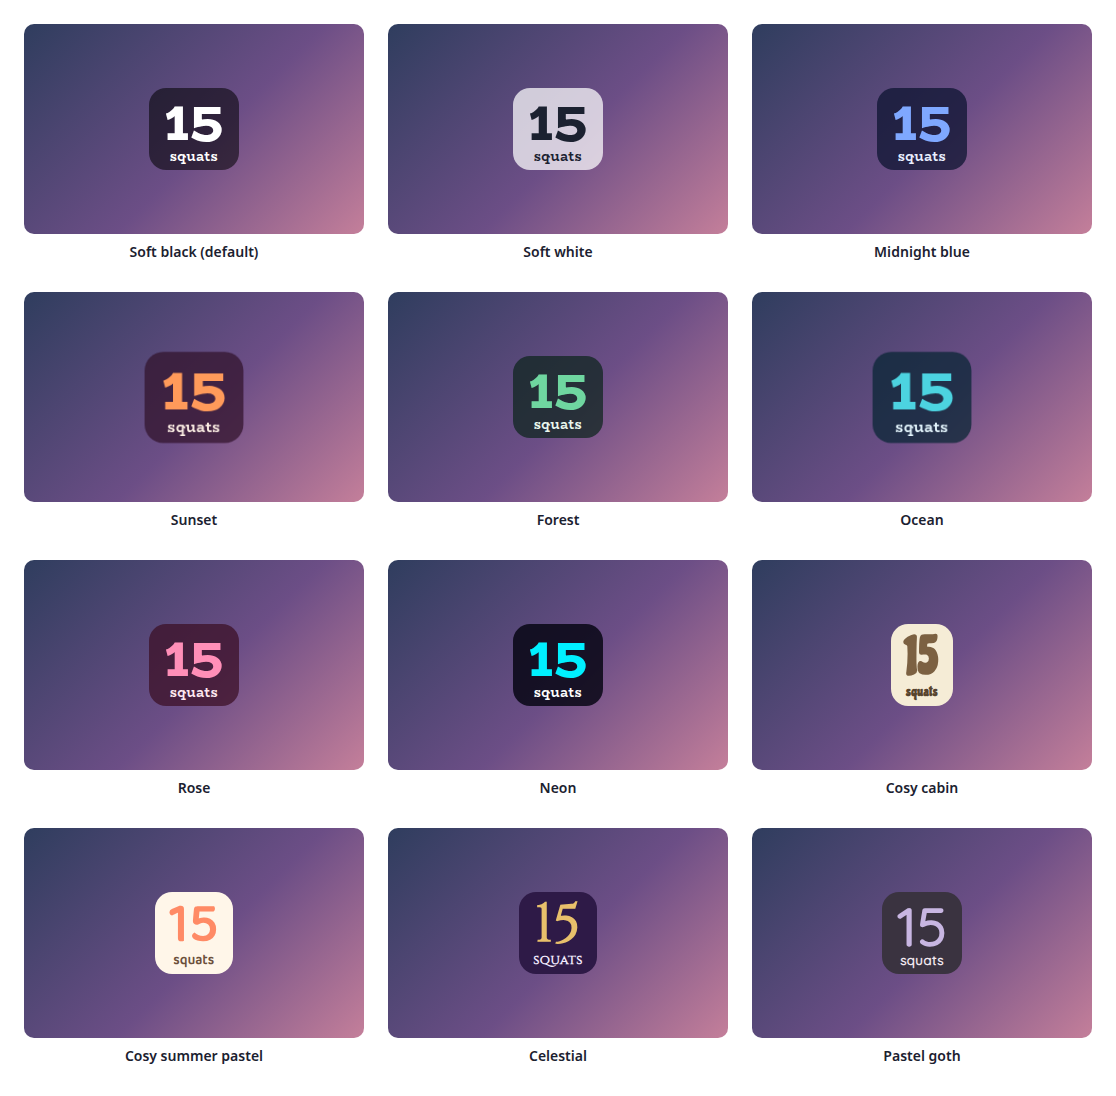
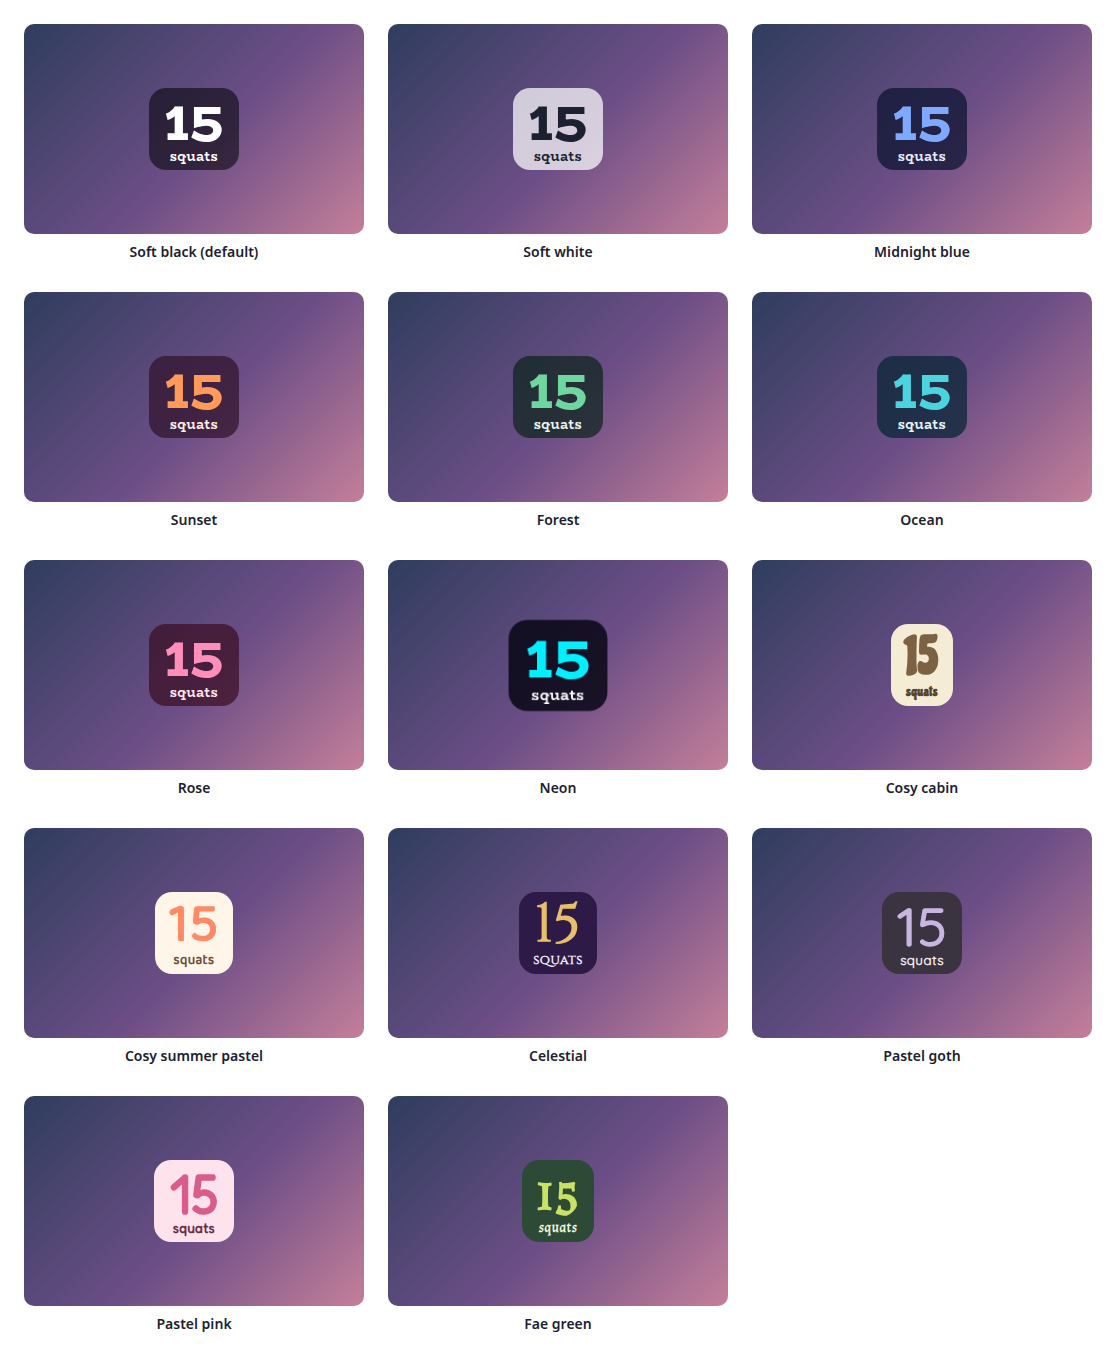
Add the Pastel pink and Fae green presets
Two more style presets join the shared set, so there are now fourteen. Pastel pink is a soft blush with rose, in Fredoka, whose rounded letters suit it, and Fae green is a mossy green with a firefly lime accent, in Almendra, a storybook serif. They are identical in every overlay in this set, the dropdown and the README gallery show all fourteen, and the test checks each against the shared palette.

diff --git a/test/test-widget.js b/test/test-widget.js
@@ -362,11 +362,11 @@ function ok(cond, msg) { if (cond) { pass++; console.log("  PASS " + msg); } els
   ok(unhandled.length === 0, "every button is handled (unhandled: " + unhandled.join(", ") + ")");
 
 
-  // ---- style presets: the same twelve, with the same colours, in every overlay
+  // ---- style presets: the same fourteen, with the same colours, in every overlay
   console.log("\n[style presets]");
-  const EXPECT = {"glass": {"text": "#FFFFFF", "accent": "#FFFFFF", "panel": "rgba(0, 0, 0, 0.55)", "font": "BioRhyme"}, "frost": {"text": "#1B2130", "accent": "#1B2130", "panel": "rgba(255, 255, 255, 0.72)", "font": "BioRhyme"}, "midnight": {"text": "#E8EEFF", "accent": "#7FA8FF", "panel": "rgba(10, 18, 46, 0.72)", "font": "BioRhyme"}, "sunset": {"text": "#FFF1E6", "accent": "#FF9A5A", "panel": "rgba(48, 18, 42, 0.72)", "font": "BioRhyme"}, "forest": {"text": "#EAF7EE", "accent": "#6FD6A0", "panel": "rgba(12, 36, 28, 0.72)", "font": "BioRhyme"}, "ocean": {"text": "#E6F8FF", "accent": "#4CD3E0", "panel": "rgba(6, 36, 50, 0.72)", "font": "BioRhyme"}, "rose": {"text": "#FFE9F1", "accent": "#FF8FB8", "panel": "rgba(58, 14, 34, 0.72)", "font": "BioRhyme"}, "neon": {"text": "#FFFFFF", "accent": "#00F0FF", "panel": "rgba(4, 4, 16, 0.82)", "font": "BioRhyme"}, "cosycabin": {"text": "#57442E", "accent": "#7C6142", "panel": "#F5ECD6", "font": "Chicle"}, "pastel": {"text": "#6B4F3A", "accent": "#FF8A65", "panel": "#FFF6E9", "font": "Baloo 2"}, "celestial": {"text": "#F3ECFF", "accent": "#E8C06B", "panel": "#2E1A47", "font": "Cinzel"}, "pastelgoth": {"text": "#F2E9F0", "accent": "#C8B6E2", "panel": "#3A3340", "font": "Quicksand"}};
-  const LABELS = {"glass": "Soft black (default)", "frost": "Soft white", "midnight": "Midnight blue", "sunset": "Sunset", "forest": "Forest", "ocean": "Ocean", "rose": "Rose", "neon": "Neon", "cosycabin": "Cosy cabin", "pastel": "Cosy summer pastel", "celestial": "Celestial", "pastelgoth": "Pastel goth", "custom": "Custom (use the colours below)"};
-  ok(JSON.stringify(Object.keys(fields.themePreset.options)) === JSON.stringify(Object.keys(LABELS)) && Object.keys(LABELS).length === 13, "the dropdown offers the twelve shared presets and Custom, in the shared order");
+  const EXPECT = {"glass": {"text": "#FFFFFF", "accent": "#FFFFFF", "panel": "rgba(0, 0, 0, 0.55)", "font": "BioRhyme"}, "frost": {"text": "#1B2130", "accent": "#1B2130", "panel": "rgba(255, 255, 255, 0.72)", "font": "BioRhyme"}, "midnight": {"text": "#E8EEFF", "accent": "#7FA8FF", "panel": "rgba(10, 18, 46, 0.72)", "font": "BioRhyme"}, "sunset": {"text": "#FFF1E6", "accent": "#FF9A5A", "panel": "rgba(48, 18, 42, 0.72)", "font": "BioRhyme"}, "forest": {"text": "#EAF7EE", "accent": "#6FD6A0", "panel": "rgba(12, 36, 28, 0.72)", "font": "BioRhyme"}, "ocean": {"text": "#E6F8FF", "accent": "#4CD3E0", "panel": "rgba(6, 36, 50, 0.72)", "font": "BioRhyme"}, "rose": {"text": "#FFE9F1", "accent": "#FF8FB8", "panel": "rgba(58, 14, 34, 0.72)", "font": "BioRhyme"}, "neon": {"text": "#FFFFFF", "accent": "#00F0FF", "panel": "rgba(4, 4, 16, 0.82)", "font": "BioRhyme"}, "cosycabin": {"text": "#57442E", "accent": "#7C6142", "panel": "#F5ECD6", "font": "Chicle"}, "pastel": {"text": "#6B4F3A", "accent": "#FF8A65", "panel": "#FFF6E9", "font": "Baloo 2"}, "celestial": {"text": "#F3ECFF", "accent": "#E8C06B", "panel": "#2E1A47", "font": "Cinzel"}, "pastelgoth": {"text": "#F2E9F0", "accent": "#C8B6E2", "panel": "#3A3340", "font": "Quicksand"}, "pastelpink": {"text": "#6A2E4B", "accent": "#D95C8A", "panel": "#FFE3EC", "font": "Fredoka"}, "faegreen": {"text": "#EEF5DA", "accent": "#C9E265", "panel": "#2C4A36", "font": "Almendra"}};
+  const LABELS = {"glass": "Soft black (default)", "frost": "Soft white", "midnight": "Midnight blue", "sunset": "Sunset", "forest": "Forest", "ocean": "Ocean", "rose": "Rose", "neon": "Neon", "cosycabin": "Cosy cabin", "pastel": "Cosy summer pastel", "celestial": "Celestial", "pastelgoth": "Pastel goth", "pastelpink": "Pastel pink", "faegreen": "Fae green", "custom": "Custom (use the colours below)"};
+  ok(JSON.stringify(Object.keys(fields.themePreset.options)) === JSON.stringify(Object.keys(LABELS)) && Object.keys(LABELS).length === 15, "the dropdown offers the fourteen shared presets and Custom, in the shared order");
   ok(Object.keys(LABELS).every(k => fields.themePreset.options[k] === LABELS[k]), "with the shared labels");
   ok(fields.themePreset.value === "glass", "and Soft black is the default");
   for (const key of Object.keys(EXPECT)) {

diff --git a/widget/widget.js b/widget/widget.js
@@ -19,7 +19,7 @@
 
   var STORE_KEY = "squat_tracker_v1";
 
-  /* Style presets. The same twelve, with the same colours, in every overlay in this
+  /* Style presets. The same fourteen, with the same colours, in every overlay in this
      set, generated from one table so they cannot drift apart, so any preset looks
      like one family across a whole stream. The default, Soft black, is a see-through
      black panel with white text. */
@@ -35,7 +35,9 @@
     cosycabin: { panel: "#F5ECD6", strong: "#F5ECD6", text: "#57442E", accent: "#7C6142", font: "Chicle" },
     pastel: { panel: "#FFF6E9", strong: "#FFF6E9", text: "#6B4F3A", accent: "#FF8A65", font: "Baloo 2" },
     celestial: { panel: "#2E1A47", strong: "#2E1A47", text: "#F3ECFF", accent: "#E8C06B", font: "Cinzel" },
-    pastelgoth: { panel: "#3A3340", strong: "#3A3340", text: "#F2E9F0", accent: "#C8B6E2", font: "Quicksand" }
+    pastelgoth: { panel: "#3A3340", strong: "#3A3340", text: "#F2E9F0", accent: "#C8B6E2", font: "Quicksand" },
+    pastelpink: { panel: "#FFE3EC", strong: "#FFE3EC", text: "#6A2E4B", accent: "#D95C8A", font: "Fredoka" },
+    faegreen: { panel: "#2C4A36", strong: "#2C4A36", text: "#EEF5DA", accent: "#C9E265", font: "Almendra" }
   };
   var BASE = PRESETS.glass;
 

diff --git a/dev/harness.js b/dev/harness.js
@@ -82,7 +82,7 @@
     var def = fieldDefs.themePreset;
     host.innerHTML =
       (def ? '<div class="row"><label for="look-preset">Style preset</label> <select id="look-preset"></select></div>' +
-        '<p class="hint">The same twelve presets are in every overlay in this set. Custom uses the colour settings below.</p>' : '') +
+        '<p class="hint">The same fourteen presets are in every overlay in this set. Custom uses the colour settings below.</p>' : '') +
       '<div class="row"><button id="export-download" class="go">Download fields.json</button>' +
       '<button id="export-copy" class="alt">Copy fields.json</button></div>' +
       '<p class="hint">Your current settings as a fields.json for StreamElements. Paste it into the Fields tab of a new custom widget and it starts out as you see it here.</p>' +

diff --git a/README.md b/README.md
@@ -26,15 +26,15 @@ It is a single self-contained widget in plain JavaScript, with no dependencies a
 
 <p><img src="docs/locked.png" alt="The sticker with a small padlock in its corner" width="340"></p>
 
-**Your own look.** Every part is a setting. This one uses custom colours, an outline, rounder corners, a tilt, a lighter caption and a tail. You can also pick any of the twelve [style presets](#style-presets) with one setting.
+**Your own look.** Every part is a setting. This one uses custom colours, an outline, rounder corners, a tilt, a lighter caption and a tail. You can also pick any of the fourteen [style presets](#style-presets) with one setting.
 
 <p><img src="docs/custom.png" alt="A pink sticker with a light outline, a tilt and the caption squats today" width="340"></p>
 
 ## Style presets
 
-One setting picks the look. The same twelve presets, with the same colours, are in every overlay in this set, so overlays from this set match whichever you choose. This is how each one looks in this overlay.
+One setting picks the look. The same fourteen presets, with the same colours, are in every overlay in this set, so overlays from this set match whichever you choose. This is how each one looks in this overlay.
 
-<p><img src="docs/presets.png" alt="A grid of this overlay in each of the twelve style presets: Soft black, Soft white, Midnight blue, Sunset, Forest, Ocean, Rose, Neon, Cosy cabin, Cosy summer pastel, Celestial and Pastel goth" width="760"></p>
+<p><img src="docs/presets.png" alt="A grid of this overlay in each of the fourteen style presets: Soft black, Soft white, Midnight blue, Sunset, Forest, Ocean, Rose, Neon, Cosy cabin, Cosy summer pastel, Celestial, Pastel goth, Pastel pink and Fae green" width="760"></p>
 
 | Preset | Look |
 | --- | --- |
@@ -50,6 +50,8 @@ One setting picks the look. The same twelve presets, with the same colours, are 
 | Cosy summer pastel | Warm cream and coral, in Baloo 2. |
 | Celestial | Deep purple and gold, in Cinzel. |
 | Pastel goth | Charcoal and lilac, in Quicksand. |
+| Pastel pink | Soft blush pink with rose, in Fredoka. |
+| Fae green | Mossy green with a firefly lime accent, in Almendra. |
 
 Choose **Custom** to use the colour pickers and font instead. They are ignored while a preset is chosen.
 
@@ -108,7 +110,7 @@ Every setting has a plain label in StreamElements, grouped as follows.
 | Look | A caption under the number, the floating `+N` (its prefix, suffix and how long it stays), the padlock, and the tail. |
 | Sticker | The size of the number, caption and floating text, corner roundness, padding, the gap between number and caption, tilt, an outline and shadows. |
 | Text | The boldness of the number, caption and floating text, and the caption's opacity and letter spacing. |
-| Theme | One of the twelve shared style presets (Soft black by default) or Custom colours and font, with separate colours for the box, number, caption, outline, padlock and floating text, and an opacity for the box. |
+| Theme | One of the fourteen shared style presets (Soft black by default) or Custom colours and font, with separate colours for the box, number, caption, outline, padlock and floating text, and an opacity for the box. |
 | Animation | One switch for all animation, how far the sticker swells when the count changes, and how long that takes. |
 | Sounds | A sound and volume for a gift adding squats, for locking and for unlocking, plus a master mute. |
 | Manual controls | Buttons to simulate a gift, adjust, lock and reset, and to test each sound. |
@@ -160,7 +162,7 @@ The JavaScript is plain ES5, so it can be pasted straight into the StreamElement
 
 ## Related overlays
 
-These overlays share the same default look and the same twelve style presets, so they sit together on one stream.
+These overlays share the same default look and the same fourteen style presets, so they sit together on one stream.
 
 - [Sub Goals Overlay](https://github.com/jordan-lee-code/sub-goals-overlay): sub and bits goals that fill as chat reaches them.
 - [Subathon Overlay](https://github.com/jordan-lee-code/subathon-overlay): a subathon clock with a cap, power-ups and sub goals.

diff --git a/CONTRIBUTING.md b/CONTRIBUTING.md
@@ -22,7 +22,7 @@ The dev harness stands in for StreamElements, so you can try changes without goi
 4. When you add a setting, add it to `widget/fields.json` and read it in `widget/widget.js`.
 5. Add or update tests in `test/`, and make sure `npm test` passes.
 6. If behaviour changes, update the README.
-7. The twelve style presets are shared by every overlay in this set, with identical colours, so they look cohesive on one stream. They live in the `PRESETS` table in `widget/widget.js`, and a test checks each against the shared values. If you change a palette, make the same change in the other overlays and regenerate the gallery in `docs/presets.png`.
+7. The fourteen style presets are shared by every overlay in this set, with identical colours, so they look cohesive on one stream. They live in the `PRESETS` table in `widget/widget.js`, and a test checks each against the shared values. If you change a palette, make the same change in the other overlays and regenerate the gallery in `docs/presets.png`.
 
 ## Reporting a bug
 
